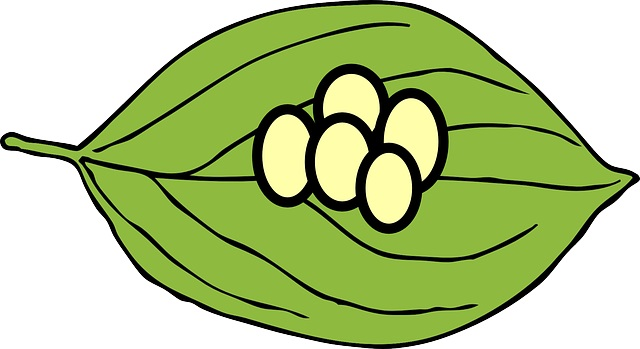
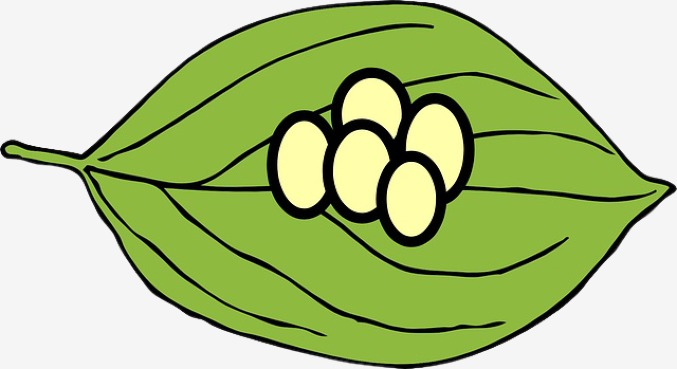
update all images with new background color

diff --git a/assets/js/butterfly.js b/assets/js/butterfly.js
@@ -5,17 +5,16 @@ function shuffleImagesButterfly() {
 
 //declare an array to store the images  
 let imagesArray = [
-"./assets/images/butterfly_level/pineapple_2.jpg",
-"./assets/images/butterfly_level/pineapple_3.jpg",
-"./assets/images/butterfly_level/pineapple_5.jpg",
-"./assets/images/butterfly_level/banana_2.jpg",
-"./assets/images/butterfly_level/banana_3.jpg",
-"./assets/images/butterfly_level/banana_4.jpg",
-"./assets/images/butterfly_level/apple_3.jpg",
-"./assets/images/butterfly_level/apple_4.jpg",
-"./assets/images/butterfly_level/apple_5.jpg",
-"./assets/images/butterfly_level/strawberry_3.jpg",
-"./assets/images/butterfly_level/strawberry_5.jpg",
+"./assets/images/butterfly_level/apples_6.jpg",
+"./assets/images/butterfly_level/apples_9.jpg",
+"./assets/images/butterfly_level/bananas_4.jpg",
+"./assets/images/butterfly_level/bananas_7.jpg",
+"./assets/images/butterfly_level/bananas_9.jpg",
+"./assets/images/butterfly_level/oranges_4.jpg",
+"./assets/images/butterfly_level/oranges_5.jpg",
+"./assets/images/butterfly_level/oranges_9.jpg",
+"./assets/images/butterfly_level/pears_4.jpg",
+"./assets/images/butterfly_level/pears_6.jpg",
 ]  
   
 //generate a number and provide to the images to generate randomly  

diff --git a/assets/js/caterpillar.js b/assets/js/caterpillar.js
@@ -5,13 +5,13 @@ function shuffleImagesCaterpillar() {
 
 //declare an array to store the images  
 let imagesArray = [
- "./assets/images/caterpillar_level/banana_multiple.jpg",
- "./assets/images/caterpillar_level/apples_multiple.jpg",
- "./assets/images/caterpillar_level/orange_multiple.jpg",
- "./assets/images/caterpillar_level/lemons_multiple.jpg",
- "./assets/images/caterpillar_level/pears_multiple.jpg",
- "./assets/images/caterpillar_level/pineapple_multiple.jpg",
- "./assets/images/caterpillar_level/strawberries_multiple.jpg",
+ "./assets/images/caterpillar_level/banana_3.jpg",
+ "./assets/images/caterpillar_level/apple_3.jpg",
+ "./assets/images/caterpillar_level/lemon_3.jpg",
+ "./assets/images/caterpillar_level/orange_3.jpg",
+ "./assets/images/caterpillar_level/pear_3.jpg",
+  "./assets/images/caterpillar_level/pineapple_3.jpg",
+ "./assets/images/caterpillar_level/strawberry_3.jpg",      
 ]  
   
 //generate a number and provide to the images to generate randomly  

diff --git a/assets/js/egg.js b/assets/js/egg.js
@@ -5,13 +5,13 @@ function shuffleImagesEgg() {
 
 //declare an array to store the images  
 let imagesArray = [
- "./assets/images/egg_level/banana_single.jpg",
- "./assets/images/egg_level/apple_single.jpg",
- "./assets/images/egg_level/orange_single.jpg",
- "./assets/images/egg_level/lemon_single.jpg",
- "./assets/images/egg_level/pear_single.jpg",
- "./assets/images/egg_level/pineapple_single.jpg",
- "./assets/images/egg_level/strawberry_single.jpg",
+ "./assets/images/egg_level/banana_single1.jpg",
+"./assets/images/egg_level/apple_single1.jpg",
+"./assets/images/egg_level/lemon_single1.jpg",
+"./assets/images/egg_level/orange_single1.jpg",
+"./assets/images/egg_level/pear_single1.jpg",
+"./assets/images/egg_level/pineapple_single1.jpg",
+"./assets/images/egg_level/strawberry_single1.jpg",
 ]  
 
 //generate a number and provide to the images to generate randomly  

diff --git a/assets/js/modal.js b/assets/js/modal.js
@@ -28,14 +28,14 @@ var modalCloseBtn = document.querySelector('.modal__close');
 var readyToPlay = document.querySelector('.btn__start__play');
 readyToPlay.addEventListener('click', startGame)
 
-// When How to play is clicked display welcome modal
+/*// When How to play is clicked display welcome modal
 var playBtn = document.querySelector('.modal__open__link');
 playBtn.onclick = function() {
   welcomeModal.style.display = "block";
   $('.option__image__picture').addClass('hide'); // hide three images 
   $('.clock__hand').removeClass('clock--hands--rotate'); // to start clock from beginning 
   document.getElementById('answer').style.opacity = 1;     
-};
+};*/
 
 // Change level of play from pop-up modal
 let gameLevelEgg = document.getElementById("levelEgg");

diff --git a/assets/css/style.css b/assets/css/style.css
@@ -389,15 +389,12 @@
         text-align: center;
     }
     .welcome__modal {
-        padding-top: 20px; /* Location of the box */
+        padding-top: 20px;
     }
     .modal__content {
         width: 80%;
         height: 80%;
     }
-    /*.modal__image__caterpillar {
-        height: 150px;
-    }*/
     .modal__content__text {
         font-size: 80%;
     }
@@ -437,18 +434,9 @@
         height: 150px;
         width: 150px;
     }
-    /*.answer__image__picture {
-        height: 75%;
-        width: 65%;
-        margin-left: 25%;
-    }*/
     .option__image__container {
         height: 100px;
     }
-/*    .option__image__picture {
-        height: 60%;
-        width: 75%;
-    }*/
     .nav__link__bottom {
         font-size: 10px;
     }

diff --git a/README.md b/README.md
@@ -184,6 +184,8 @@ The site uses the following standard HTML colors:
 
 **Main play area and pop-up modal text:** darkslategray
 
+**Main background color:** whitesmoke (#F5F5F5)
+
 **Background colors:** red; green; purple; pink; orangered; blue
 
 ![image](https://user-images.githubusercontent.com/76033080/113863132-94ffee80-97a9-11eb-891c-2721bc4ebd2d.png)
@@ -282,6 +284,7 @@ Alternatively, select "Open with Github Desktop".
 * [CSS Tricks](https://css-tricks.com/working-with-javascript-media-queries/) - help using JavaScript to remove a class for a media query
 * [Coding Sight](https://codingsight.com/git-branching-naming-convention-best-practices/) - help in understanding standard convention for branch naming in Github
 * [The Coding Train](https://www.youtube.com/watch?v=oPpnCh7InLY) - YouTube video to help understand branching in Github
+* [removebg](https://www.remove.bg/t/change-background) - remove the background of the images and replace with whitesmoke to match site background color
 * Narender Singh, my mentor at Code Institute for his feedback and support.
 
 The idea for the game and all content is my own.
